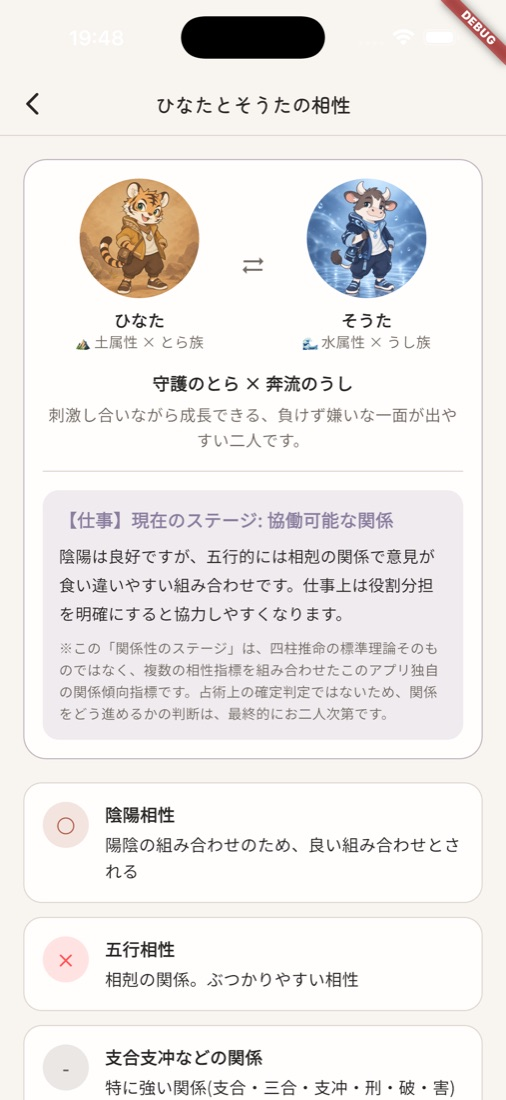
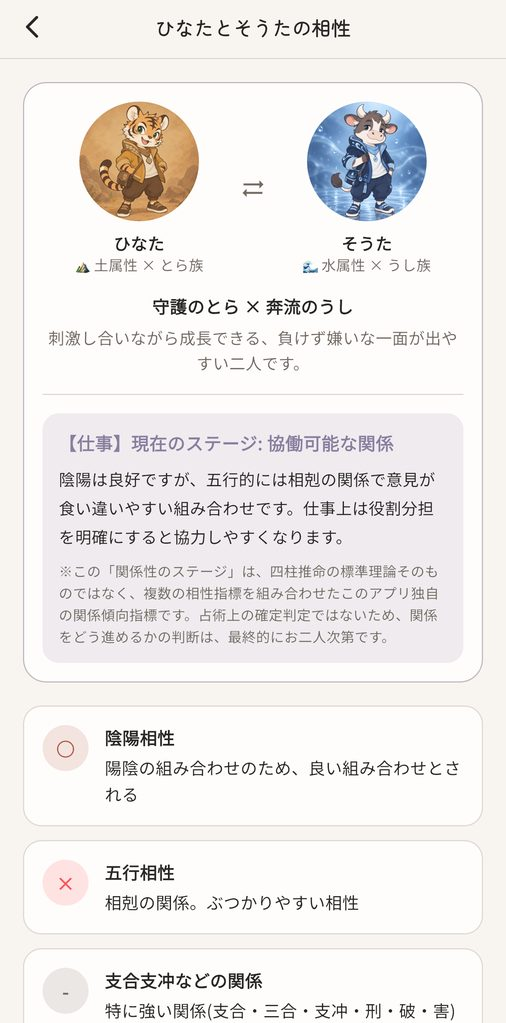
scrub ops details from public repo (moved to HQ notes), recapture screenshots without status bar/DEBUG ribbon (Codex review)

diff --git a/apps/enishiru/index.html b/apps/enishiru/index.html
@@ -40,10 +40,10 @@
 
 <h2>こんな画面です</h2>
 <ul class="shots">
-  <li><img src="img/screen-home.jpg" alt="登録した人の一覧と、ふたりの相性を見るボタンの画面" width="253" height="550" loading="lazy"><span>登録した人を、一覧で。</span></li>
-  <li><img src="img/screen-meishiki.jpg" alt="生年月日から、キャラクターと能力、命式メモが表示された命式の画面" width="253" height="550" loading="lazy"><span>生年月日から、自分のキャラクターを。</span></li>
-  <li><img src="img/screen-relation.jpg" alt="二人を選び、仕事・取引相手などの関係性を選ぶ画面" width="253" height="550" loading="lazy"><span>どんな関係性で見るかを、選ぶ。</span></li>
-  <li><img src="img/screen-compat.jpg" alt="二人の相性の結果が、関係性に合わせた説明つきで表示された画面" width="253" height="550" loading="lazy"><span>関係性に合わせた、相性の読み解き。</span></li>
+  <li><img src="img/screen-home.jpg" alt="登録した人の一覧と、ふたりの相性を見るボタンの画面" width="253" height="511" loading="lazy"><span>登録した人を、一覧で。</span></li>
+  <li><img src="img/screen-meishiki.jpg" alt="生年月日から、キャラクターと能力、命式メモが表示された命式の画面" width="253" height="511" loading="lazy"><span>生年月日から、自分のキャラクターを。</span></li>
+  <li><img src="img/screen-relation.jpg" alt="二人を選び、仕事・取引相手などの関係性を選ぶ画面" width="253" height="511" loading="lazy"><span>どんな関係性で見るかを、選ぶ。</span></li>
+  <li><img src="img/screen-compat.jpg" alt="二人の相性の結果が、関係性に合わせた説明つきで表示された画面" width="253" height="511" loading="lazy"><span>関係性に合わせた、相性の読み解き。</span></li>
 </ul>
 <p class="muted">開発中の画面です。表示している人物は、すべて架空のサンプルです。機能や画面は、変更になる場合があります。</p>
 

diff --git a/AGENTS.md b/AGENTS.md
@@ -5,7 +5,7 @@
 ## 会社情報の参照元
 
 SAWZANの設立・契約状況など、変わり得る会社情報はCodex側の共有HQ
-`/Volumes/workspace/Projects/app-company-hq/company/status.md` を確認する。
+HQ(`app-company-hq`)の `company/status.md` を確認する。
 バーチャルオフィスの利用住所は、上のHQの資料(`company/status.md`)にある。**この公開リポジトリには、住所・氏名・電話番号・個人のメールアドレスを書かない**(リポジトリもGitHub Pagesも公開されるため)。
 公開ページに住所を載せるかどうかは、そのページの目的とユーザーの指示を確認する。
 
@@ -17,21 +17,11 @@ SAWZANの設立・契約状況など、変わり得る会社情報はCodex側の
 - **本番公開**: GitHub Pages経由で https://sawzan.com (カスタムドメイン設定済み)
   - GitHubリポジトリ: https://github.com/studio-sawzan/sawzan-site
   - GitHubアカウント: `studio-sawzan`(2026-09-30作成。連絡先のメールアドレスは、HQの資料を参照)
-- **バックアップ**: DS218j(NAS)の bare リポジトリ
-  - `ssh://ds218j/var/services/homes/zeronos/git-repos/sawzan-site.git`
-  - second-brainと同じ運用(pull→commit→push、衝突は自動解決せずユーザー判断)
+- **バックアップ**: NASのbareリポジトリ(詳細はHQの `notes/sawzan-site-ops.md`。公開リポジトリには書かない)
 
-## HTTPS・Cloudflareの構成(2026-10-01)
+## DNS・HTTPS・Cloudflare
 
-- DNSはCloudflare(DNSレコード5本=Aレコード4本+www CNAMEは**プロキシ有効**)。
-  GitHub Pagesの「Enforce HTTPS」も有効。
-- Cloudflare側: SSL/TLSは**Full (strict)**、「常にHTTPSを使用」オン、
-  **HSTS有効(max-age 6か月=15552000秒、サブドメイン適用・プリロードはオフ)**、No-Sniffオン。
-- メール転送(support@sawzan.com)のMX/TXTレコードはプロキシ対象外(触らない)。
-- **Cloudflareをやめる/プロキシを外す場合の注意**: HSTSがブラウザに最大6か月キャッシュされる。
-  先にHSTSを無効にし、max-ageの期間が過ぎるのを待ってから、プロキシ/HTTPSを外すこと
-  (順序を誤ると、訪問者がサイトに入れなくなる)。
-- SSL/TLSモードをFlexibleにしない(GitHubのHTTPS強制と衝突して無限リダイレクトになる)。
+運用の詳細(DNS、SSL/TLSモード、HSTS、Cloudflareをやめる時の順序、メール転送)は、非公開のHQ側 `notes/sawzan-site-ops.md` にある。**公開リポジトリには書かない。** 注意点だけ: Cloudflareの設定を変える前に、必ずそのメモを読む(HSTSが長く残るため、順序を誤ると、訪問者が入れなくなる)。
 
 ## ページ構成(アプリごとにフォルダを掘る、2026-10-01)
 
@@ -66,7 +56,7 @@ SAWZANの設立・契約状況など、変わり得る会社情報はCodex側の
 ## 特定商取引法の表示(2026-10-03)
 
 サブスク販売に伴う特商法ページは、未作成・未公開。電話番号が必要な理由、VO住所の条件、責任者氏名の論点は
-`/Volumes/workspace/Projects/app-company-hq/company/tokushoho_handoff_2026-10-03.md` を読むこと。
+HQ(`app-company-hq`)の `company/tokushoho_handoff_2026-10-03.md` を読むこと。
 ユーザーの承認なしに、住所・氏名・電話番号を公開ページに載せない。
 
 ## 作品・サービスのページ(2026-10-05、ユーザー指示で新設)

diff --git a/CLAUDE.md b/CLAUDE.md
@@ -2,8 +2,8 @@
 
 # サイトの会話を始めるとき(2026-10-07時点の状態)
 
-- 公開済み: トップ、作品・サービス(`/works/`、データは空)、電子公告、えにしるの紹介(`/apps/enishiru/`)、規約・ポリシー・アカウント削除。旧URLは転送ページ。
+- 公開済み: トップ、作品・サービス(`/works/`、えにしるを「準備中」で掲載)、電子公告、えにしるの紹介(`/apps/enishiru/`)、規約・ポリシー・アカウント削除。旧URLは転送ページ。
 - **公開(push)は、ユーザーが「公開して」と言うまで行わない。** ローカルでコミットまで。公開前に、ブラウザ画面で見え方を確認する。
 - 共通のメニュー・フッターは `tools/build.py`(`python3 tools/build.py --check`)。ページを足したら `PAGES` に登録。
-- 判断待ち(ユーザー): ①作品・サービスに、えにしるを「準備中」で載せるか ②設立後の、会社概要・特商法・ポリシーの更新(運営者情報、外国への提供の同意方式)③曲を載せるときの名前とリンク先(`music-studio` が元データ)。
-- 全体の見取り図と判断待ち一覧: Obsidian `~/second-brain/project-logs/SAWZAN_全体マップと判断待ち.md`。
+- 判断待ち(ユーザー): ①設立後の、会社概要・特商法・ポリシーの更新(運営者情報、外国への提供の同意方式)②曲を載せるときの名前とリンク先(`music-studio` が元データ)。
+- 全体の見取り図と判断待ち一覧: Obsidianの「SAWZAN_全体マップと判断待ち」(second-brainの project-logs)。
